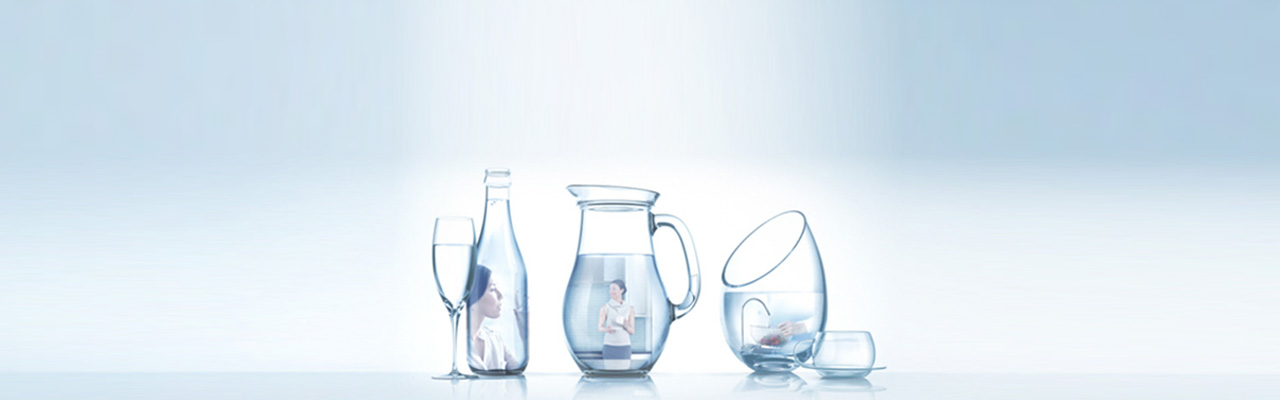
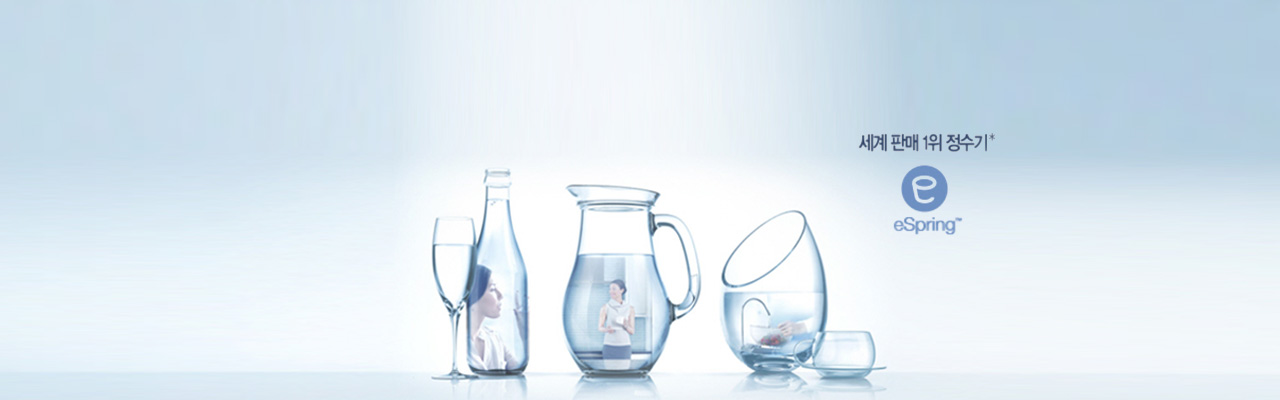
브랜드홈 수정

Changed region(s): [[0.6875, 0.42, 0.75, 0.6], [0.6562, 0.33, 0.7812, 0.39]]

diff --git a/_ui/responsive/html/brand/B10105.html b/_ui/responsive/html/brand/B10105.html
@@ -131,25 +131,31 @@
 					<h1 class="title-h2">CEO 인사말</h1>
 					<p>안녕하십니까? 한국암웨이 대표 김장환입니다.</p>
 				</div>
-				<section>
-					<div class="full-component">
-						<img src="../../theme-blue/images/akl_brand/about/ceotimg_01.jpg" alt="CEO 김장환" />
-					</div>
-					<div>
-						<h2 class="title-h6">소비자와 사업파트너의 행복한 삶의 지도를 함께 그립니다.</h2>
-						<p>인공지능, 자율주행과 같은 낯선 용어들이 화두가 되고, 최근 무인 공장에 이어 무인 편의점까지 등장하고 있습니다. 이제 막 서막이 오른 이 예측 불가능한 4차 산업혁명 시대에서 각종 첨단 기술을 읽어내기도 벅찹니다. 우리의 삶이 기술과 함께 더욱 편리해지고 있지만, 한편으로는 기술에 흔들리지 않고 인간의 가치를 지킬 수 있을까 하는 우려의 목소리도 함께 있습니다.</p> 
-						<p>기술을 발전시키기에 앞서 사람에 대한 이해가 먼저여야 하지 않을까요? 통합과 융합의 시대에서 가장 중심에 두어야 할 것은 무엇보다 ‘사람’입니다.</p> 
-						<p>사람에 대한 애정은 암웨이가 지난 1959년 창사 이래 쭉 견지해온 철학과도 일맥상통합니다. 암웨이의 비전은 ‘Helping People Live Better Lives’, 즉 우리 민족의 홍익인간 정신과도 같은 ‘널리 사람을 이롭게 한다.’는 것입니다. 사람을 향한 이 기본 정신은 60여 년간 이어온 양보할 수 없는 암웨이의 핵심 가치입니다.</p>
-					
-						<h2 class="title-h6">고객의 삶을 풍요롭고 건강하게</h2>
-						<p>사람을 향한 암웨이의 최우선 노력은 보다 좋은 상품과 서비스를 제공하는 것입니다. 세계적으로 탁월한 제품력을 인정받은 암웨이 브랜드에 만족하지 않고, 화려한 기능이 아닌 삶의 질을 높일 수 있는 제품의 끊임없는 개발은 암웨이의 신나는 도전입니다.</p> 
-						<p>직접판매 산업의 선도 기업으로서 막중한 책임감을 느끼고, 우리 산업이 소비자들에게 더욱 신뢰받을 수 있도록 솔선수범하여 산업 개선에 앞장서 나가는 것은 암웨이의 사명입니다.</p> 
-						<p>무자본으로 누구나 도전할 수 있는 사업 기회를 제공하여 고용창출 효과에 이바지하고, 아시아 물류거점인 부산 물류센터, 전국 암웨이 비즈니스 센터 및 암웨이 브랜드 센터, 중소제조업체를 포함한 물류업체와의 협업을 통해 우리 사회와 경제에 상당한 활력을 불어넣는 것은 암웨이의 소중한 보람입니다.</p> 
-						<p>아울러 희망비타민사업 등으로 지역사회와 함께 호흡하고, UN과 협업하는 ‘Power of 5’ 캠페인을 통해 전 세계 빈곤 국가 아동들이 기아와 질병으로 허덕이지 않도록 지원하여, 어린이들의 건강한 성장을 돕는 것은 기업시민으로서의 역할과 소임을 이어가는 암웨이의 자랑스런 전통입니다.</p> 
-						<p>사람과 사람을 연결하는 직접판매 선도 기업으로서, 기술의 진보 속에 가려진 사람에 대한 애정의 힘을 믿습니다. 한국암웨이는 앞으로도 ‘사람과 사람을 잇는 행복한 감성 지도’를 그려나가는데 역량을 집중하겠습니다. 초심을 잃지 않고 계속해서 사람들이 더 나은 삶을 살 수 있도록 돕는 것, 그것이 바로 우리가 존재하는 이유이기 때문입니다.</p> 
-						<p>감사합니다.</p>
+				<section class="full-component">
+					<div class="box-bnr-fw01">
+						<img class="pc" src="/_ui/responsive/theme-blue/images/akl_brand/about/ceotimg_01.jpg" alt="CEO 김장환" />
+						<img class="mob" src="/_ui/responsive/theme-blue/images/akl_brand/about/ceotimg_01_mob.jpg" alt="CEO 김장환" />
+						<div class="txt-wrap">
+							<strong></strong>
+						</div>
 					</div>
 				</section>
+				
+				<div class="content-row">
+					<h2 class="title-h6">소비자와 사업파트너의 행복한 삶의 지도를 함께 그립니다.</h2>
+					<p>인공지능, 자율주행과 같은 낯선 용어들이 화두가 되고, 최근 무인 공장에 이어 무인 편의점까지 등장하고 있습니다. 이제 막 서막이 오른 이 예측 불가능한 4차 산업혁명 시대에서 각종 첨단 기술을 읽어내기도 벅찹니다. 우리의 삶이 기술과 함께 더욱 편리해지고 있지만, 한편으로는 기술에 흔들리지 않고 인간의 가치를 지킬 수 있을까 하는 우려의 목소리도 함께 있습니다.</p> 
+					<p>기술을 발전시키기에 앞서 사람에 대한 이해가 먼저여야 하지 않을까요? 통합과 융합의 시대에서 가장 중심에 두어야 할 것은 무엇보다 ‘사람’입니다.</p> 
+					<p>사람에 대한 애정은 암웨이가 지난 1959년 창사 이래 쭉 견지해온 철학과도 일맥상통합니다. 암웨이의 비전은 ‘Helping People Live Better Lives’, 즉 우리 민족의 홍익인간 정신과도 같은 ‘널리 사람을 이롭게 한다.’는 것입니다. 사람을 향한 이 기본 정신은 60여 년간 이어온 양보할 수 없는 암웨이의 핵심 가치입니다.</p>
+				
+					<h2 class="title-h6">고객의 삶을 풍요롭고 건강하게</h2>
+					<p>사람을 향한 암웨이의 최우선 노력은 보다 좋은 상품과 서비스를 제공하는 것입니다. 세계적으로 탁월한 제품력을 인정받은 암웨이 브랜드에 만족하지 않고, 화려한 기능이 아닌 삶의 질을 높일 수 있는 제품의 끊임없는 개발은 암웨이의 신나는 도전입니다.</p> 
+					<p>직접판매 산업의 선도 기업으로서 막중한 책임감을 느끼고, 우리 산업이 소비자들에게 더욱 신뢰받을 수 있도록 솔선수범하여 산업 개선에 앞장서 나가는 것은 암웨이의 사명입니다.</p> 
+					<p>무자본으로 누구나 도전할 수 있는 사업 기회를 제공하여 고용창출 효과에 이바지하고, 아시아 물류거점인 부산 물류센터, 전국 암웨이 비즈니스 센터 및 암웨이 브랜드 센터, 중소제조업체를 포함한 물류업체와의 협업을 통해 우리 사회와 경제에 상당한 활력을 불어넣는 것은 암웨이의 소중한 보람입니다.</p> 
+					<p>아울러 희망비타민사업 등으로 지역사회와 함께 호흡하고, UN과 협업하는 ‘Power of 5’ 캠페인을 통해 전 세계 빈곤 국가 아동들이 기아와 질병으로 허덕이지 않도록 지원하여, 어린이들의 건강한 성장을 돕는 것은 기업시민으로서의 역할과 소임을 이어가는 암웨이의 자랑스런 전통입니다.</p> 
+					<p>사람과 사람을 연결하는 직접판매 선도 기업으로서, 기술의 진보 속에 가려진 사람에 대한 애정의 힘을 믿습니다. 한국암웨이는 앞으로도 ‘사람과 사람을 잇는 행복한 감성 지도’를 그려나가는데 역량을 집중하겠습니다. 초심을 잃지 않고 계속해서 사람들이 더 나은 삶을 살 수 있도록 돕는 것, 그것이 바로 우리가 존재하는 이유이기 때문입니다.</p> 
+					<p class="mgt20">감사합니다.</p>
+					<p class="sign">한국암웨이 대표이사<strong>김장환</strong></p>
+				</div>
 				
 			</div>
 		</div> <!-- //container -->

diff --git a/_ui/responsive/html/brand/B20200.html b/_ui/responsive/html/brand/B20200.html
@@ -258,7 +258,7 @@
 						<div class="item-content-wrap">
 							<h4 class="banner-title ">아티스트리 <br>인스타그램</h4>
 							<div class="sub-title-wrap">
-								<span class="banner-sub-title">아티스트리 스튜디오의 다양한 정보와 <br>다채로운 콘텐츠를 만나보세요.</span>
+								<span class="banner-sub-title">글로벌 코스메틱 브랜드 아티스트리의 <br>다양한 정보와 다채로운 콘텐츠를 만나보세요. </span>
 							</div>
 							<div class="banner-button-wrap">
 								<a href="https://www.instagram.com/artistrykorea" class="banner-button-link" target="_blank" title="새창">
@@ -272,11 +272,11 @@
 						<div class="item-content-wrap">
 							<h4 class="banner-title">아티스트리 <br>뷰티 APP</h4>
 							<div class="sub-title-wrap">
-								<span class="banner-sub-title">가상 메이크업과 스킨케어를 추천해드립니다.</span>
+								<span class="banner-sub-title">아티스트리 뷰티 앱에서 <br>나만의 완벽한 메이크업 룩을 찾아보세요!</span>
 							</div>
 							<div class="banner-button-wrap">
-								<a href="#" class="banner-button-link">
-									<div class="btn-blue-white"><span class="btn-text">바로가기</span></div>
+								<a href="#" onclick="layerPopOver(this,'.B20200_lp2');" class="banner-button-link">
+									<div class="btn-blue-white"><span class="btn-text">다운로드</span></div>
 								</a>
 							</div>
 						</div>
@@ -290,7 +290,7 @@
 		<div id="quick"></div>
 		<div id="footer"></div>
 	</main>
-	<!-- 동영상 팝업 -->
+	<!-- 팝업 -->
 	<div class="layerWrapper B20200_lp1">
 		<div class="videobox lynx-modal-window--opened directbox typeVideoView">
 			<div class="video-pop">
@@ -316,6 +316,31 @@
 			</div>
 		</div>
 	</div>
+	<!-- 앱다운로드 팝업 -->
+	<div class="layerWrapper B20200_lp2">
+		<div class="cbox layerBox popWidL">
+			<div class="cart-popup__dialog">
+				<div class="cart-popup__header">
+					<span class="cart-popup__header-text">운영체제(Android &amp; iOS) 선택
+						<a href="#" data-dismiss="modal" aria-label="Close" aria-hidden="true" class="cart-popup__close" >
+							<img src="/_ui/responsive/theme-blue/images/close.png" alt="닫기">
+						</a>
+					</span>
+				</div>
+				<div class="cart-popup__content ShoppingCart">
+					<div class="cart-popup__item-info">
+						<p>사용 중이신 스마트폰의 <strong>운영체제</strong>를 선택해 주세요!</p>
+						<div class="btn-wrap">
+							<a href="https://play.google.com/store/apps/details?id=com.perfectcorp.amb&hl=ko" target="_blank" title="새창"><img src="/_ui/responsive/theme-blue/images/footer_android.png" alt="download on the android"></a>
+							<a href="https://itunes.apple.com/kr/app/%EC%95%84%ED%8B%B0%EC%8A%A4%ED%8A%B8%EB%A6%AC-%EB%B7%B0%ED%8B%B0/id1308841515?mt=8" target="_blank" title="새창"><img src="/_ui/responsive/theme-blue/images/footer_appstore.png" alt="download on the appstore"></a>
+						</div>
+					</div>
+				</div>
+			</div>
+		</div>
+	</div>
+	<!-- //팝업  -->
+	
 	
 	<script type="text/javascript">$(function() {
 		$('#banner_list').owlCarousel({

diff --git a/_ui/responsive/theme-blue/css/akl-brand.css b/_ui/responsive/theme-blue/css/akl-brand.css
@@ -142,6 +142,9 @@ Editor : HYEWON HWANG
 .brand .value [class*="img-text-row-box-type"] div {width:40%;}
 .brand .value [class*="img-text-row-box-type"] div:first-child {width:60%;}
 
+.brand .ceo .sign {margin-top:60px;text-align:right;}
+.brand .ceo .sign strong{display:block;font-size:18px;font-weight:500;}
+
 .akl .nonepointer.bod-customer {padding:0;}
 .akl .nonepointer .thumnail-box .featured-product__thumnail,
 .akl .nonepointer .news-result-item-text {cursor:default;min-height:80px;text-align:center;}
@@ -462,6 +465,13 @@ Editor : HYEWON HWANG
 .artistry .txtbox.s4 p, .artistry .txtbox.s5 p, .artistry .txtbox.s6 p {font-size:16px;}
 .artistry .txtbox div p > span {display:block;margin-top:30px;font-size:13px;line-height:20px;}
 .artistry sup {font-size:13px;}
+.layerWrapper.B20200_lp2 .cbox.layerBox {max-width:600px;}
+.layerWrapper.B20200_lp2 .cart-popup__header-text {letter-spacing:-0.5px;}
+.layerWrapper.B20200_lp2 .cart-popup__header-text {letter-spacing:0;}
+.layerWrapper.B20200_lp2 .cart-popup__item-info {text-align:center;}
+.layerWrapper.B20200_lp2 .cart-popup__item-info p > strong {color:#002f5f;font-weight:500;}
+.layerWrapper.B20200_lp2 .cart-popup__item-info .btn-wrap {margin:30px auto;}
+.layerWrapper.B20200_lp2 .cart-popup__item-info .btn-wrap img {display:inline-block;height:42px;margin:0 5px;}
 
 /* 5.이스프링 */
 .akl .espring .homepage_banner .banner__wrapper .banner__message,

diff --git a/_ui/responsive/html/brand/B20401.html b/_ui/responsive/html/brand/B20401.html
@@ -154,6 +154,7 @@
 				<div class="content-row">
 					<div class="txtbox s1">
 						<div class="s1">
+							<img class="mob" src="/_ui/responsive/theme-blue/images/akl_brand/espring/fullimg1_mob.jpg" alt="" >
 							<p>가격보다 가치를 유행보다 본질을 따지는 합리적인 까다로움 그런 당신이 선택한 정수기를 보면 좋은 물의 기준이 보입니다.<br>
 							유해물질은 거르고 영양은 남긴 [압축카본필터] 표면적 관리보다 근본적 시스템을 생각한 [직수방식, 무선UV램프, eCoupled 테크놀로지] 품질이 눈에 보이는 [NSF인증, 스마트칩] <br>
 							당신의 기준에는 물의 본질에 충실한 이스프링이 당연합니다.</p>
@@ -169,7 +170,7 @@
 				
 				<!-- Video Preview -->
 				<div class="video-preview">
-					<img class="mob" src="/_ui/responsive/theme-blue/images/akl_brand/espring/movie_bg.jpg" alt="" >
+					<img class="mob" src="/_ui/responsive/theme-blue/images/akl_brand/espring/movie_bg_mob.jpg" alt="" >
 					<div class="video-preview__content">
 						<button onclick="layerPopOver(this,'.B20401_pop1');"><img class="video-preview__play" src="/_ui/responsive/theme-blue/images/play_button.png" alt="동영상 재생"></button>
 					</div>

diff --git a/_ui/responsive/html/brand/B20501.html b/_ui/responsive/html/brand/B20501.html
@@ -269,7 +269,7 @@
 						<div class="popup-video-preview__content">
 							<div class="video-cont">
 								<div class="video-wrapper">
-									<iframe title="My Cooking Story 두번째 이야기" src="https://www.youtube.com/7777cac1-d6bb-412e-b3d4-68e9ccb80993" frameborder="0" allow="autoplay; encrypted-media" allowfullscreen></iframe>
+									<iframe title="My Cooking Story 두번째 이야기" src="https://www.youtube.com/embed/zilKGHWBGzo" frameborder="0" allow="autoplay; encrypted-media" allowfullscreen></iframe>
 								</div> 
 							</div>
 						</div>

diff --git a/_ui/responsive/html/brand/B20701.html b/_ui/responsive/html/brand/B20701.html
@@ -130,7 +130,6 @@
 				<div id="banner_list">
 					<div class="wrapper">
 						<div class="banner__wrapper">
-							<img class="mob" src="/_ui/responsive/theme-blue/images/akl_brand/home/main_visual01_mob.jpg" alt="">
 							<div class="banner__title">Amway Home</div>
 							<div class="banner__message">
 								<p class="banner__message--main">소중한 우리 가족을 <br>위한 프리미엄 세제</p>
